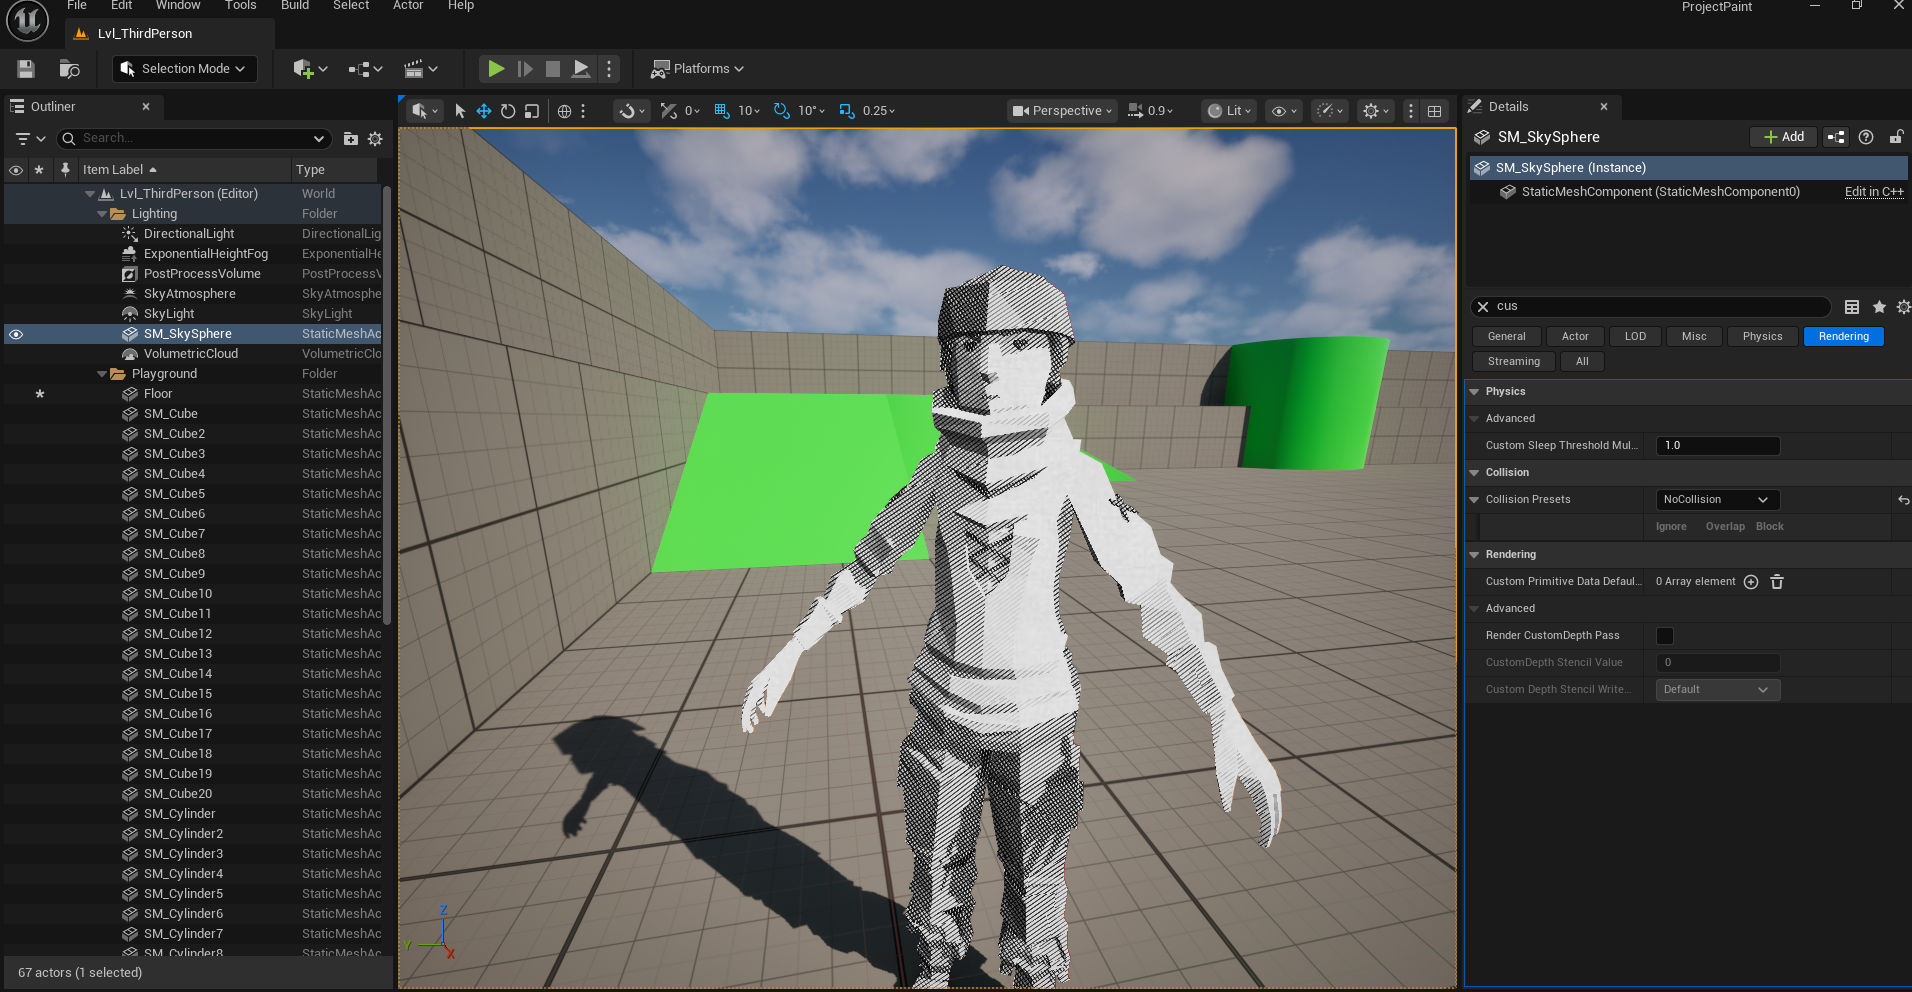
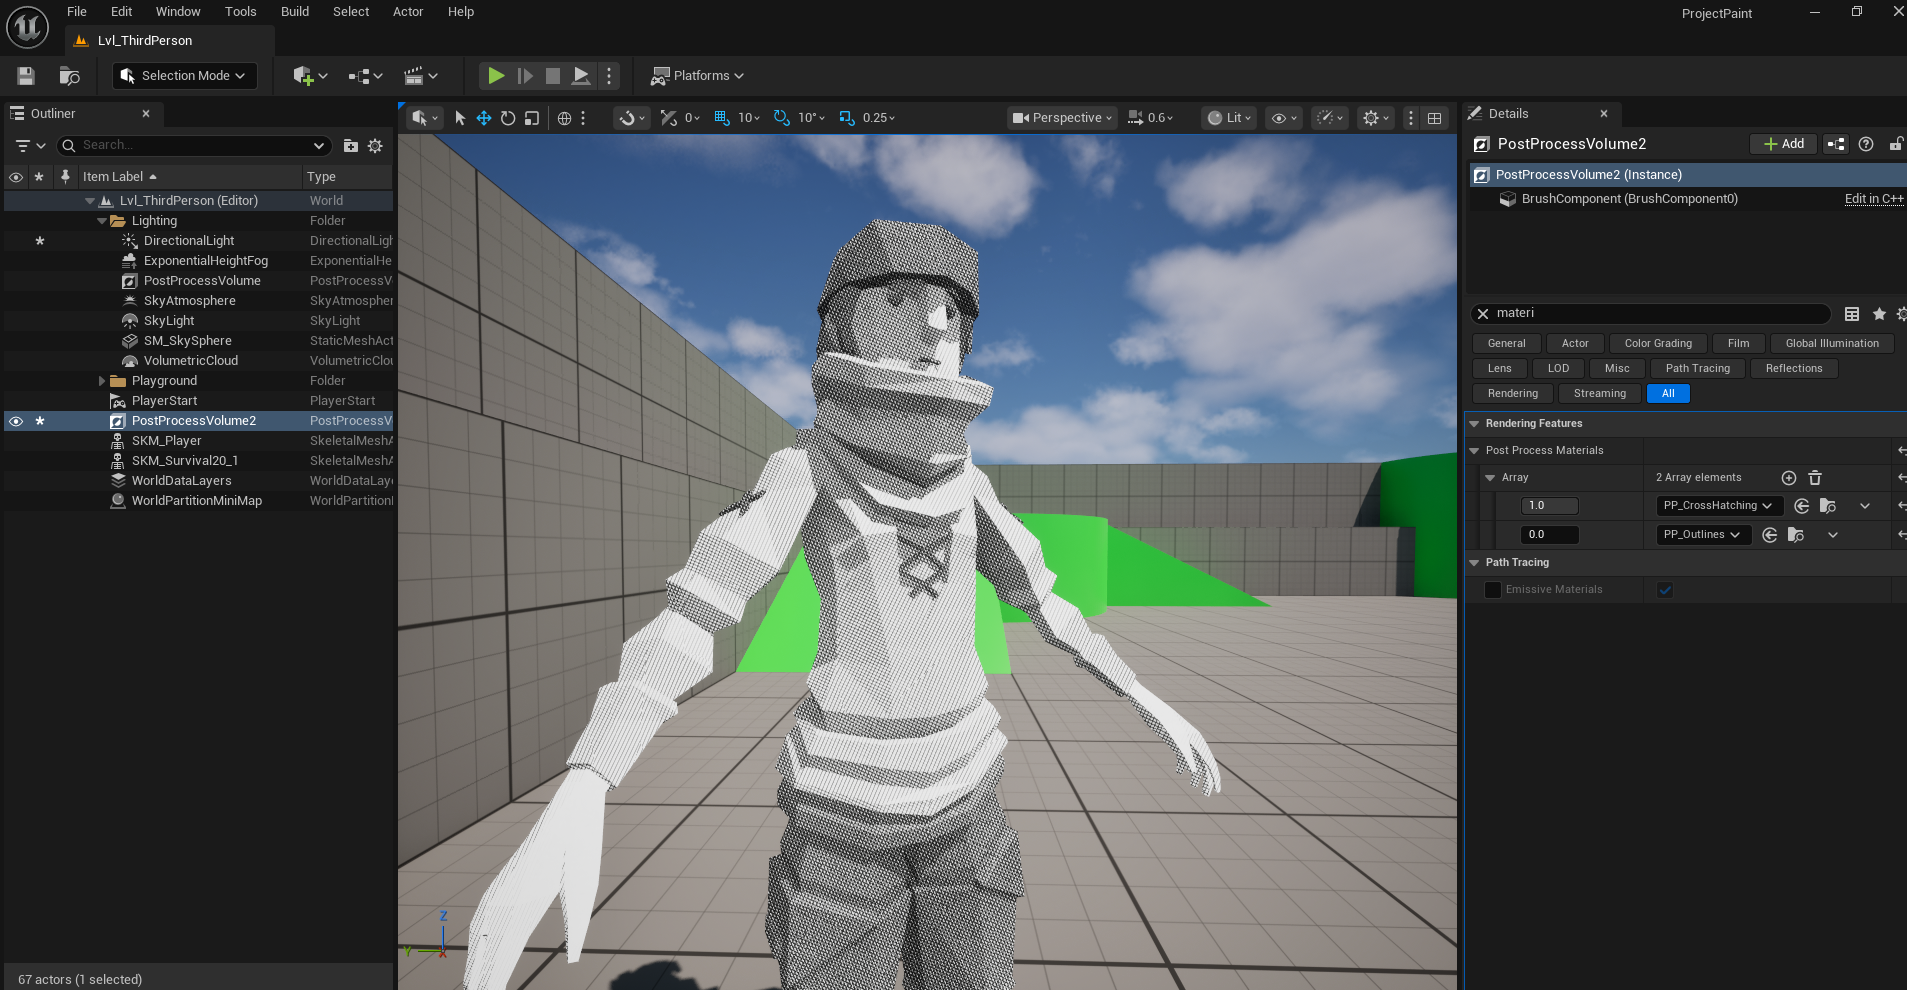
update blog

diff --git a/_posts/2026-01-07-cross-hatching.md b/_posts/2026-01-07-cross-hatching.md
@@ -57,4 +57,18 @@ This can be done by using *TransformVector* node. After the transformation, we o
 
 ![Light Node](/assets/images/blogs/cross_hatching/light_vector.png)
 
-## TBC...
+## Cross Hatching Lines
+
+### Line Pattern Generation
+
+Now we can generate our cross hatching line patterns. We start by taking the **dot product** of our *Adjusted Screen UVs* and *Screen Relative Light Vector*. This produces a smooth gradient ranging from black to white, depending on how aligned the UV direction is with the light direction. 
+
+Next, we multiply this result by the **line density**, which controls how frequently the lines reapt. Finally, we apply the *Frac* node. Since *Frac* outputs only the fractional portion of the input value(a value between 0 and 1), which is exactly the color range from black to white. Thus, we get a neat, evenly spaced line patterns. 
+
+If you are confused about how the dot product works here, try replacing the light vector with a custom float2 node. By manually changing its direction, you can clearly observe how the orientation of the light vector directly influences the direction and appearance of the cross hatching lines.
+
+![Line Pattern](/assets/images/blogs/cross_hatching/line_pattern.png)
+
+Right now, our lines are pretty jaggy, that's because at boundaries of each small gradient segment, the value abruptly jumps between 0 and 1. This causes the visible aliasing in the pattern. To smooth it out, we can remap the value from (0, 1) to (-1, 1), then take its absolute value. Now we will have a nice and smooth line patterns.
+
+![Line Pattern](/assets/images/blogs/cross_hatching/smooth_line_pattern.png)

diff --git a/_completed_projects/toybox.md b/_completed_projects/toybox.md
@@ -63,4 +63,4 @@ Here are a few examples of the in-game interface and features.
 + Developed a C# library to inject and modify game code .
     + Utilized [Unity Mod Manager (UMM)](https://www.nexusmods.com/site/mods/21) to load the library.
     + Applied runtime patches using[Harmony](https://harmony.pardeike.net/) to modify game behavior directly.
-+ Inspected internal game mechanics represented as [Blueprints](https://github.com/WittleWolfie/OwlcatModdingWiki/wiki/%5BWrath%5D-Blueprints), using tools such as (BubblePrints)[https://github.com/factubsio/BubblePrints] and [Data Viewer](https://www.nexusmods.com/pathfinderwrathoftherighteous/mods/9), to understand and modify gameplay data.
++ Inspected internal game mechanics represented as [Blueprints](https://github.com/WittleWolfie/OwlcatModdingWiki/wiki/%5BWrath%5D-Blueprints), using tools such as [BubblePrints](https://github.com/factubsio/BubblePrints) and [Data Viewer](https://www.nexusmods.com/pathfinderwrathoftherighteous/mods/9), to understand and modify gameplay data.
